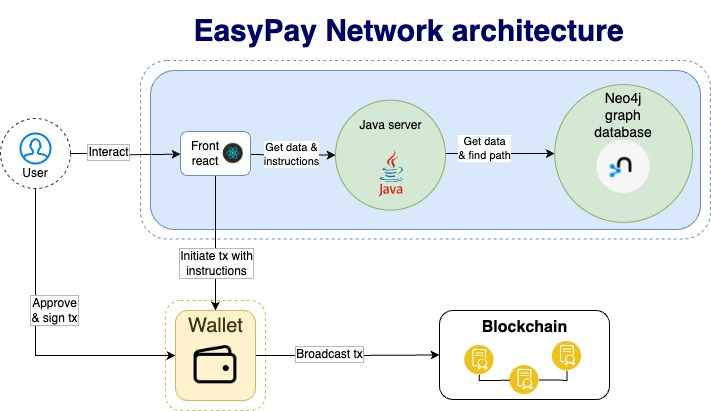
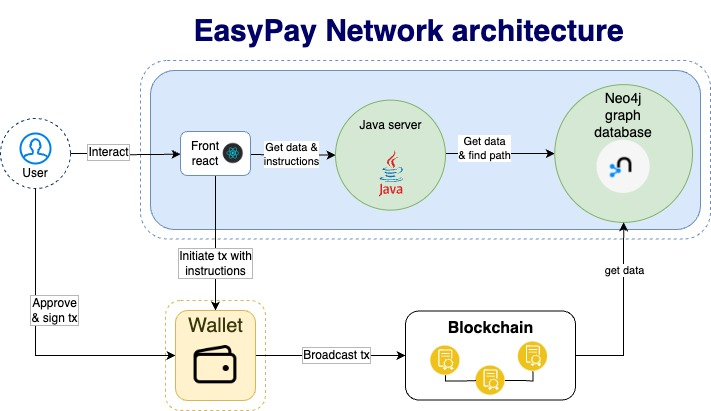
Updated architecture & readme

diff --git a/README.md b/README.md
@@ -5,7 +5,7 @@
 > **Boost blockchain economy to the new level by eliminating user fragmentation, enhancing liquidity, and unifying markets across the entire web3!**
 
 * [easypay.network](https://easypay.network) - a web-site/dapp that clearly shows how you can work with EasyPay Network.
-* [github.com/easypay-network](https://github.com/easypay-network) - github project repository, which contains all the developments of this project during **Hackmos 2023**.
+* [github.com/easypay-network](https://github.com/easypay-network) - github project repository, which contains all the developments of this project during **Hackathon 2023**.
 
 ## Content
 * [Content](#Content)
